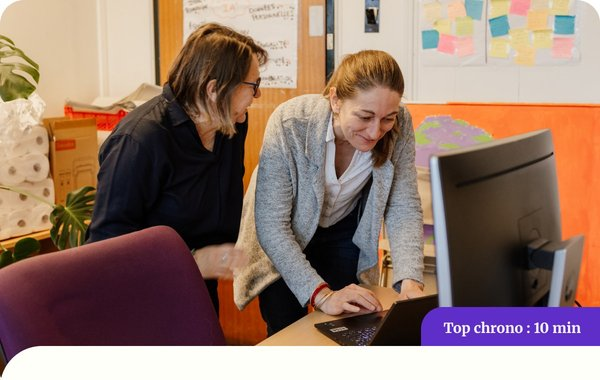
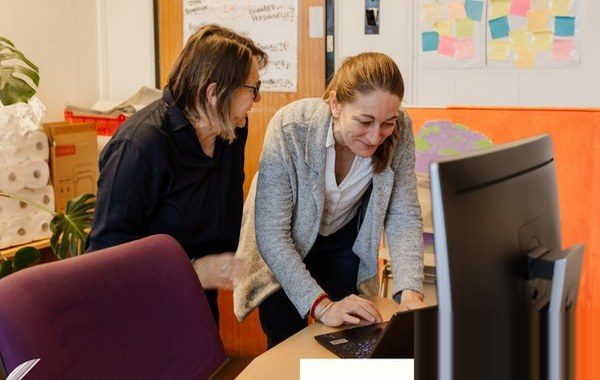
Rebuild heroes with clean photos, CSS radii, and HTML badges.

diff --git a/email-02.html b/email-02.html
@@ -107,23 +107,34 @@
                 </a>
               </td>
             </tr>
-            <!-- Hero: scoop + badge + top radii baked into PNG -->
+            <!-- Hero image (clean photo; radii via CSS) -->
             <tr>
-              <td align="center" bgcolor="#FFFFF9" style="background-color:#FFFFF9;padding:0;line-height:0;font-size:0;">
+              <td align="center" bgcolor="#FFFFFF" style="background-color:#FFFFFF;padding:0;line-height:0;font-size:0;">
                 <!--[if !mso]><!-->
                 <picture>
                   <source type="image/webp" srcset="images/email-02-hero-600.webp">
-                  <img src="images/email-02-hero-600.jpg" width="600" height="380" alt="Spécial Inclusion — Maternelle" fetchpriority="high" decoding="async" style="display:block;border:0;outline:none;text-decoration:none;width:100%;max-width:600px;height:auto;" />
+                  <img src="images/email-02-hero-600.jpg" width="600" height="380" alt="Enfants jouant avec des blocs" fetchpriority="high" decoding="async" style="display:block;border:0;outline:none;text-decoration:none;width:100%;max-width:600px;height:auto;border-top-left-radius:24px;border-top-right-radius:24px;border-bottom-right-radius:6px;border-bottom-left-radius:6px;" />
                 </picture>
                 <!--<![endif]-->
                 <!--[if mso]>
-                <img src="images/email-02-hero.jpg" width="600" height="380" alt="Spécial Inclusion — Maternelle" style="display:block;border:0;outline:none;text-decoration:none;width:600px;height:380px;" />
+                <img src="images/email-02-hero.jpg" width="600" height="380" alt="Enfants jouant avec des blocs" style="display:block;border:0;outline:none;text-decoration:none;width:600px;height:380px;" />
                 <![endif]-->
               </td>
             </tr>
-            <!-- Intro + resources -->
+            <!-- Intro: scoop radius + HTML badges on the image/content seam -->
             <tr>
-              <td align="center" bgcolor="#FFFFF9" class="mobile-pad" style="background-color:#FFFFF9;padding:37px 61px;">
+              <td align="center" bgcolor="#FFFFF9" class="mobile-pad" style="background-color:#FFFFF9;padding:0 61px 37px 61px;border-top-left-radius:42px;border-top-right-radius:0;border-bottom-right-radius:0;border-bottom-left-radius:0;">
+                <!--[if !mso]><!-->
+                <div style="text-align:right;margin:-42px -61px 37px 0;line-height:normal;font-size:0;">
+                  <span style="display:inline-block;padding:9px 18px;background-color:#F8F3FF;color:#5F2EC8;font-family:'Merriweather',Georgia,'Times New Roman',serif;font-size:14px;line-height:18px;font-weight:800;border-top-left-radius:22px;border-top-right-radius:0;border-bottom-right-radius:0;border-bottom-left-radius:22px;vertical-align:middle;">Spécial Inclusion</span><span style="display:inline-block;padding:12px 22px;background-color:#5F2EC8;color:#FFFFFF;font-family:'Merriweather',Georgia,'Times New Roman',serif;font-size:14px;line-height:18px;font-weight:800;border-top-left-radius:0;border-top-right-radius:22px;border-bottom-right-radius:22px;border-bottom-left-radius:0;vertical-align:middle;">Maternelle</span>
+                </div>
+                <!--<![endif]-->
+                <!--[if mso]>
+                <table role="presentation" cellspacing="0" cellpadding="0" border="0" align="right" style="margin:0 0 16px 0;"><tr>
+                  <td bgcolor="#F8F3FF" style="padding:9px 18px;font-family:Georgia,serif;font-size:14px;font-weight:800;color:#5F2EC8;">Spécial Inclusion</td>
+                  <td bgcolor="#5F2EC8" style="padding:12px 22px;font-family:Georgia,serif;font-size:14px;font-weight:800;color:#FFFFFF;">Maternelle</td>
+                </tr></table>
+                <![endif]-->
                 <h1 style="margin:0 0 16px 0;font-family:'Merriweather',Georgia,serif;font-size:29px;line-height:35px;font-weight:600;color:#313233;text-align:center;">
                   L'essentiel pour ta classe
                 </h1>

diff --git a/email-01.html b/email-01.html
@@ -97,23 +97,33 @@
                 </a>
               </td>
             </tr>
-            <!-- Hero: scoop + feedback badge + top radii baked into PNG (Emailify overlap) -->
+            <!-- Hero image (clean photo; radii via CSS) -->
             <tr>
-              <td align="center" bgcolor="#FFFFF9" style="background-color:#FFFFF9;padding:0;line-height:0;font-size:0;">
+              <td align="center" bgcolor="#FFFFFF" style="background-color:#FFFFFF;padding:0;line-height:0;font-size:0;">
                 <!--[if !mso]><!-->
                 <picture>
                   <source type="image/webp" srcset="images/email-01-hero-600.webp">
-                  <img src="images/email-01-hero-600.jpg" width="600" height="380" alt="Ton avis — deux enseignantes souriantes" fetchpriority="high" decoding="async" style="display:block;border:0;outline:none;text-decoration:none;width:100%;max-width:600px;height:auto;" />
+                  <img src="images/email-01-hero-600.jpg" width="600" height="380" alt="Deux enseignantes souriantes" fetchpriority="high" decoding="async" style="display:block;border:0;outline:none;text-decoration:none;width:100%;max-width:600px;height:auto;border-top-left-radius:24px;border-top-right-radius:24px;border-bottom-right-radius:6px;border-bottom-left-radius:6px;" />
                 </picture>
                 <!--<![endif]-->
                 <!--[if mso]>
-                <img src="images/email-01-hero.jpg" width="600" height="380" alt="Ton avis — deux enseignantes souriantes" style="display:block;border:0;outline:none;text-decoration:none;width:600px;height:380px;" />
+                <img src="images/email-01-hero.jpg" width="600" height="380" alt="Deux enseignantes souriantes" style="display:block;border:0;outline:none;text-decoration:none;width:600px;height:380px;" />
                 <![endif]-->
               </td>
             </tr>
-            <!-- Title / CTA -->
+            <!-- Title / CTA: scoop radius + HTML badge -->
             <tr>
-              <td align="center" bgcolor="#FFFFF9" class="mobile-pad" style="background-color:#FFFFF9;padding:30px 66px 40px 66px;">
+              <td align="center" bgcolor="#FFFFF9" class="mobile-pad" style="background-color:#FFFFF9;padding:0 66px 40px 66px;border-top-left-radius:42px;border-top-right-radius:0;border-bottom-right-radius:0;border-bottom-left-radius:0;">
+                <!--[if !mso]><!-->
+                <div style="text-align:right;margin:-43px -66px 30px 0;line-height:normal;font-size:0;">
+                  <span style="display:inline-block;padding:12px 22px;background-color:#5F2EC8;color:#FFFFFF;font-family:'Merriweather',Georgia,'Times New Roman',serif;font-size:20px;line-height:25px;font-weight:800;border-top-left-radius:22px;border-top-right-radius:0;border-bottom-right-radius:0;border-bottom-left-radius:0;">Ton avis</span>
+                </div>
+                <!--<![endif]-->
+                <!--[if mso]>
+                <table role="presentation" cellspacing="0" cellpadding="0" border="0" align="right" style="margin:0 0 16px 0;"><tr>
+                  <td bgcolor="#5F2EC8" style="padding:12px 22px;font-family:Georgia,serif;font-size:20px;font-weight:800;color:#FFFFFF;">Ton avis</td>
+                </tr></table>
+                <![endif]-->
                 <h1 style="margin:0 0 25px 0;font-family:'Merriweather',Georgia,'Times New Roman',serif;font-size:29px;line-height:35px;font-weight:500;color:#313233;text-align:center;">
                   On construit la suite avec toi.
                 </h1>

diff --git a/email-05.html b/email-05.html
@@ -89,21 +89,33 @@
                 </a>
               </td>
             </tr>
+            <!-- Hero image (clean photo; radii via CSS) -->
             <tr>
-              <td align="center" bgcolor="#FFFFF9" style="background-color:#FFFFF9;padding:0;line-height:0;font-size:0;">
+              <td align="center" bgcolor="#FFFFFF" style="background-color:#FFFFFF;padding:0;line-height:0;font-size:0;">
                 <!--[if !mso]><!-->
                 <picture>
                   <source type="image/webp" srcset="images/email-05-hero-600.webp">
-                  <img src="images/email-05-hero-600.jpg" width="600" height="380" alt="Salle des professeurs - Maternelle Michel Bizot" fetchpriority="high" decoding="async" style="display:block;border:0;outline:none;text-decoration:none;width:100%;max-width:600px;height:auto;" />
+                  <img src="images/email-05-hero-600.jpg" width="600" height="380" alt="Équipe dans la salle des professeurs" fetchpriority="high" decoding="async" style="display:block;border:0;outline:none;text-decoration:none;width:100%;max-width:600px;height:auto;border-top-left-radius:24px;border-top-right-radius:24px;border-bottom-right-radius:6px;border-bottom-left-radius:6px;" />
                 </picture>
                 <!--<![endif]-->
                 <!--[if mso]>
-                <img src="images/email-05-hero.jpg" width="600" height="380" alt="Salle des professeurs - Maternelle Michel Bizot" style="display:block;border:0;outline:none;text-decoration:none;width:600px;height:380px;" />
+                <img src="images/email-05-hero.jpg" width="600" height="380" alt="Équipe dans la salle des professeurs" style="display:block;border:0;outline:none;text-decoration:none;width:600px;height:380px;" />
                 <![endif]-->
               </td>
             </tr>
+            <!-- Intro: scoop radius + HTML badge -->
             <tr>
-              <td align="center" bgcolor="#FFFFF9" class="mobile-pad" style="background-color:#FFFFF9;padding:30px 66px 24px 66px;">
+              <td align="center" bgcolor="#FFFFF9" class="mobile-pad" style="background-color:#FFFFF9;padding:0 66px 24px 66px;border-top-left-radius:42px;border-top-right-radius:0;border-bottom-right-radius:0;border-bottom-left-radius:0;">
+                <!--[if !mso]><!-->
+                <div style="text-align:right;margin:-39px -66px 30px 0;line-height:normal;font-size:0;">
+                  <span style="display:inline-block;padding:12px 22px;background-color:#5F2EC8;color:#FFFFFF;font-family:'Merriweather',Georgia,'Times New Roman',serif;font-size:12px;line-height:15px;font-weight:800;border-top-left-radius:22px;border-top-right-radius:0;border-bottom-right-radius:0;border-bottom-left-radius:0;">Salle des professeurs - Maternelle Michel Bizot</span>
+                </div>
+                <!--<![endif]-->
+                <!--[if mso]>
+                <table role="presentation" cellspacing="0" cellpadding="0" border="0" align="right" style="margin:0 0 16px 0;"><tr>
+                  <td bgcolor="#5F2EC8" style="padding:12px 22px;font-family:Georgia,serif;font-size:12px;font-weight:800;color:#FFFFFF;">Salle des professeurs - Maternelle Michel Bizot</td>
+                </tr></table>
+                <![endif]-->
                 <table role="presentation" cellspacing="0" cellpadding="0" border="0" align="center" style="margin:0 auto 16px auto;">
                   <tr>
                     <td align="center" valign="middle" style="padding:0 4px;line-height:0;font-size:0;">

diff --git a/email-03.html b/email-03.html
@@ -107,21 +107,33 @@
                 </a>
               </td>
             </tr>
+            <!-- Hero image (clean photo; radii via CSS) -->
             <tr>
-              <td align="center" bgcolor="#FFFFF9" style="background-color:#FFFFF9;padding:0;line-height:0;font-size:0;">
+              <td align="center" bgcolor="#FFFFFF" style="background-color:#FFFFFF;padding:0;line-height:0;font-size:0;">
                 <!--[if !mso]><!-->
                 <picture>
                   <source type="image/webp" srcset="images/email-03-hero-600.webp">
-                  <img src="images/email-03-hero-600.jpg" width="600" height="380" alt="Top chrono : 10 min" fetchpriority="high" decoding="async" style="display:block;border:0;outline:none;text-decoration:none;width:100%;max-width:600px;height:auto;" />
+                  <img src="images/email-03-hero-600.jpg" width="600" height="380" alt="Enseignantes préparant une séance" fetchpriority="high" decoding="async" style="display:block;border:0;outline:none;text-decoration:none;width:100%;max-width:600px;height:auto;border-top-left-radius:24px;border-top-right-radius:24px;border-bottom-right-radius:6px;border-bottom-left-radius:6px;" />
                 </picture>
                 <!--<![endif]-->
                 <!--[if mso]>
-                <img src="images/email-03-hero.jpg" width="600" height="380" alt="Top chrono : 10 min" style="display:block;border:0;outline:none;text-decoration:none;width:600px;height:380px;" />
+                <img src="images/email-03-hero.jpg" width="600" height="380" alt="Enseignantes préparant une séance" style="display:block;border:0;outline:none;text-decoration:none;width:600px;height:380px;" />
                 <![endif]-->
               </td>
             </tr>
+            <!-- Intro: scoop radius + HTML badge -->
             <tr>
-              <td align="center" bgcolor="#FFFFF9" class="mobile-pad" style="background-color:#FFFFF9;padding:30px 66px 24px 66px;">
+              <td align="center" bgcolor="#FFFFF9" class="mobile-pad" style="background-color:#FFFFF9;padding:0 66px 24px 66px;border-top-left-radius:42px;border-top-right-radius:0;border-bottom-right-radius:0;border-bottom-left-radius:0;">
+                <!--[if !mso]><!-->
+                <div style="text-align:right;margin:-42px -66px 30px 0;line-height:normal;font-size:0;">
+                  <span style="display:inline-block;padding:12px 22px;background-color:#5F2EC8;color:#FFFFFF;font-family:'Merriweather',Georgia,'Times New Roman',serif;font-size:14px;line-height:18px;font-weight:800;border-top-left-radius:22px;border-top-right-radius:0;border-bottom-right-radius:0;border-bottom-left-radius:0;">Top chrono : 10 min</span>
+                </div>
+                <!--<![endif]-->
+                <!--[if mso]>
+                <table role="presentation" cellspacing="0" cellpadding="0" border="0" align="right" style="margin:0 0 16px 0;"><tr>
+                  <td bgcolor="#5F2EC8" style="padding:12px 22px;font-family:Georgia,serif;font-size:14px;font-weight:800;color:#FFFFFF;">Top chrono : 10 min</td>
+                </tr></table>
+                <![endif]-->
                 <table role="presentation" cellspacing="0" cellpadding="0" border="0" align="center" style="margin:0 auto 16px auto;">
                   <tr>
                     <td align="center" valign="middle" style="padding:0 4px;line-height:0;font-size:0;">
